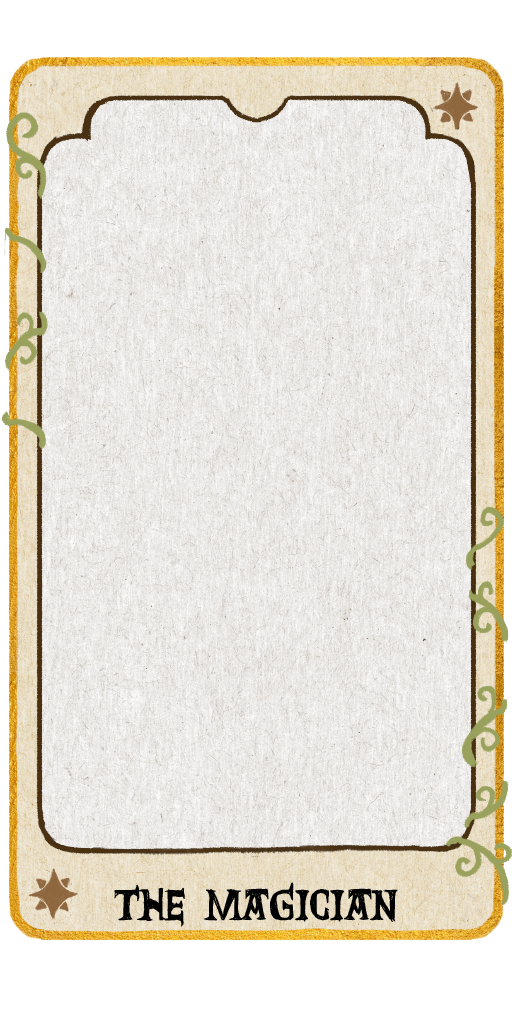
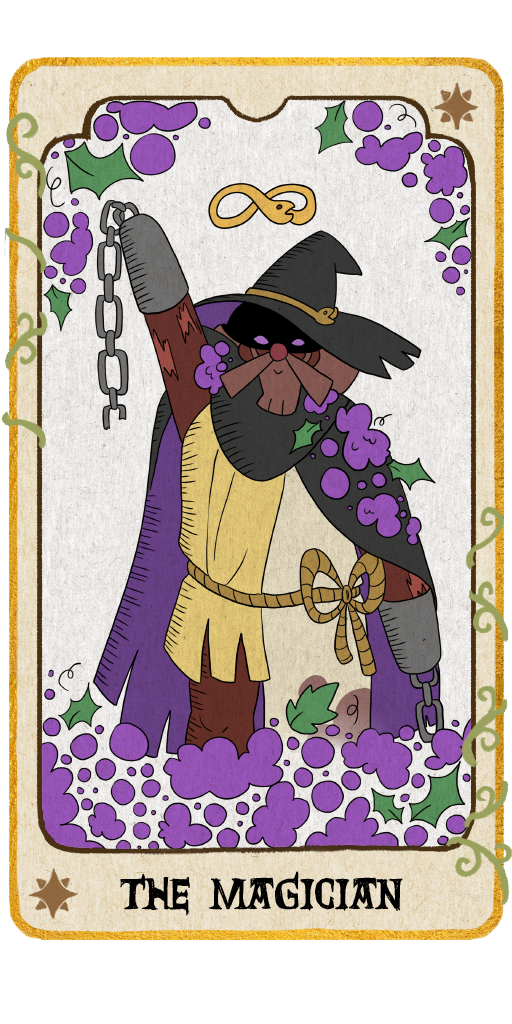
coins and npcs death update

diff --git a/src/Scene.cpp b/src/Scene.cpp
@@ -823,6 +823,7 @@ void Scene::UnloadLevel() {
 	uiCoin = nullptr;
 	cardsBase = nullptr;
 	cardTheFool = nullptr;
+	cardsIcon = nullptr;
 	cardTheMagician = nullptr;
 	arrowLeft = nullptr;
 	arrowRight = nullptr;
@@ -1664,6 +1665,7 @@ void Scene::CreateInventoryUI() {
 	iconLamp = Engine::GetInstance().textures->Load("assets/UI/Store/UI_Store_ItemLamp1_01.png"); 
 	inventoryBag = Engine::GetInstance().textures->Load("assets/UI/Inventario/UI_Inventari_Bag_01.png"); 
 	uiCoin = Engine::GetInstance().textures->Load("assets/UI/Store/UI_Store_coin.png"); 
+	cardsIcon = Engine::GetInstance().textures->Load("assets/UI/Inventario/UI_Tarot_InventoryItem1_.png");
 	cardTheFool = Engine::GetInstance().textures->Load("assets/UI/Tarot/UI_TarotCard_Fool.png");
 	cardTheMagician = Engine::GetInstance().textures->Load("assets/UI/Tarot/UI_TarotCard_Magician.png");
 	arrowRight = Engine::GetInstance().textures->Load("assets/UI/Tarot/UI_Tarot_BurronRight_.png");
@@ -1674,7 +1676,7 @@ void Scene::CreateInventoryUI() {
 		UIElementType::BUTTON, 45, "",
 		{ 1000, 425, 96, 96 }, 
 		this, SDL_Rect{ 0,0,0,0 },
-		cardsBase, cardsBase
+		cardsIcon, cardsIcon
 	);
 	if (cardButton) cardButton->visible = false;
 

diff --git a/src/coins.cpp b/src/coins.cpp
@@ -29,11 +29,11 @@ bool Coins::Awake() {
 bool Coins::Start() {
 
 	std::unordered_map<int, std::string> aliases = { {0, "idle"} };
-	anims.LoadFromTSX("Assets/UI/Store/UI_Store_coin.tsx", aliases);
-	coinPickupFx = Engine::GetInstance().audio->LoadFx("Assets/Audio/Fx/PREV/coin-collision-sound-342335.wav");
+	anims.LoadFromTSX("assets/UI/Store/UI_Store_coin.tsx", aliases);
+	coinPickupFx = Engine::GetInstance().audio->LoadFx("assets/Audio/Fx/PREV/coin-collision-sound-342335.wav");
 	anims.SetCurrent("idle");
 
-	texture = Engine::GetInstance().textures->Load("Assets/UI/Store/UI_Store_coin.png");
+	texture = Engine::GetInstance().textures->Load("assets/UI/Store/UI_Store_coin_re.png");
 
 	
 		texW = 128;
@@ -95,7 +95,7 @@ bool Coins::Update(float dt)
 		
 
 		const SDL_Rect& currentFrame = anims.GetCurrentFrame();
-		Engine::GetInstance().render->DrawTexture(texture, x - texW / 2, y - texH / 2 , &currentFrame);
+		Engine::GetInstance().render->DrawTexture(texture, x - texW / 2, y - texH / 2 , nullptr);
 	}
 
 	return true;

diff --git a/include/Scene.h b/include/Scene.h
@@ -161,6 +161,7 @@ private:
 	SDL_Texture* uiCoin = nullptr;
 
 	//Texturas tarot
+	SDL_Texture* cardsIcon = nullptr;
 	SDL_Texture* cardsBase = nullptr;
 	SDL_Texture* cardTheFool = nullptr;
 	SDL_Texture* cardTheMagician = nullptr;

diff --git a/src/Enemy.h b/src/Enemy.h
@@ -51,7 +51,7 @@ public:
 	virtual void Attack();
 
 	void DecreaseHealth(int amount);
-	void Die();
+	virtual void Die();
 
 	void SetState(EnemyState newState);
 
